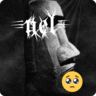
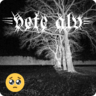
Black metal: imágenes reales oscuras (Kittelsen, Holbein, bosque, iglesia) en vez de ponis

diff --git a/src/blackmetal.py b/src/blackmetal.py
@@ -1,4 +1,4 @@
-"""Black metal stickers: grainy B&W flash photo, corpse paint, spiky unreadable logo... and a cute emoji."""
+"""Black metal stickers: dark real imagery (Kittelsen, Holbein, winter forest), spiky logo... and a cute emoji."""
 import io, math, os, random, sys
 import numpy as np
 from PIL import Image, ImageDraw, ImageFilter, ImageFont
@@ -120,59 +120,42 @@ def flash_photo(subject, xy, seed, logo_txt, emojis, logo_y=6):
     return m6.rounded(img, 26)
 
 
-def fluttershy():
-    fl = Image.open(os.path.join(here, "flutter.png")).convert("RGBA")
-    fl = corpse_paint(fl, [(85, 125, 17, 24), (145, 135, 24, 30)], (92, 168, 12), 1)
-    fl = fl.resize((440, 440), Image.LANCZOS)
-    return flash_photo(fl, (60, 90), 1, "vete alv", [("1f97a", 330, 380, 110)])
+def grim(img, crop, invert=False, gamma=1.0, gain=1.0, emojis=(), logo_txt="", seed=0, logo_y=6):
+    """dark B&W treatment of a real image: square crop, crushed tones, flash falloff, grain, cheap JPEG, spiky logo."""
+    im = Image.open(os.path.join(here, "bm", img)).convert("L")
+    W, H = im.size
+    im = im.crop((int(crop[0] * W), int(crop[1] * H), int(crop[2] * W), int(crop[3] * H))).resize((S, S), Image.LANCZOS)
+    g = np.asarray(im).astype(float) / 255
+    if invert:
+        g = 1 - g
+    g = np.clip(g * gain, 0, 1) ** gamma
+    yy, xx = np.mgrid[0:S, 0:S] / S
+    g = g * np.clip(1.3 - 1.3 * np.hypot(xx - 0.5, yy - 0.5), 0.1, 1)
+    g = g + np.random.default_rng(seed).normal(0, 0.06, g.shape)
+    out = Image.fromarray((np.clip(g, 0, 1) * 255).astype(np.uint8)).filter(ImageFilter.GaussianBlur(0.5))
+    buf = io.BytesIO(); out.save(buf, "JPEG", quality=30); buf.seek(0)
+    out = Image.open(buf).convert("RGBA")
+    logo = spiky_logo(logo_txt, seed=seed)
+    out.alpha_composite(logo, ((S - logo.width) // 2, logo_y))
+    for code, x, y, sz in emojis:
+        out.alpha_composite(m6.emoji(code, sz), (x, y))
+    return m6.rounded(out, 26)
 
 
-def pinkie():
-    pk = m6.load("pp/MLP_The_Movie_Pinkie_Pie_official_artwork.t.png", h=500)
-    off = (S - pk.width) // 2  # coords were measured with the sprite centred in 512
-    pk = corpse_paint(pk, [(112 - off, 140, 12, 22), (168 - off, 170, 26, 32)], (102 - off, 207, 14), 2)
-    pk = pk.resize((int(pk.width * 0.92), int(pk.height * 0.92)), Image.LANCZOS)
-    return flash_photo(pk, (70, 90), 2, "oki doki", [("1f449", 310, 400, 84), ("1f448", 410, 400, 84)])
-
-
-def twilight():
-    tw = Image.open(os.path.join(here, "m6/FANMADE_Twilight_Sparkle_reading_a_book_vector.png")).convert("RGBA")
-    tw = tw.crop(tw.getbbox())
-    W, H = tw.size
-    head = tw.crop((int(0.30 * W), 0, int(0.95 * W), int(0.85 * H)))
-    sc = min(S / head.width, S / head.height)
-    head = head.resize((int(head.width * sc), int(head.height * sc)), Image.LANCZOS)
-    # eye/mouth coords measured on the NO AUTORIZO frame, where the head sits at y = -40
-    head = corpse_paint(head, [(233, 170, 22, 26), (298, 165, 20, 24)], (285, 212, 14), 3)
-    return flash_photo(head, ((S - head.width) // 2, 40), 3, "intrínseco", [("1f97a", 30, 390, 100)])
-
-
-def dash():
-    rd = m6.load("rd/FANMADE_Rainbow_Dash_standing_vector.png", h=500)
-    off = (S - rd.width) // 2
-    rd = corpse_paint(rd, [(198 - off, 132, 22, 30), (258 - off, 122, 26, 34)], (220 - off, 172, 14), 4)
-    rd = rd.resize((int(rd.width * 0.9), int(rd.height * 0.9)), Image.LANCZOS)
-    return flash_photo(rd, ((S - rd.width) // 2, 70), 4, "me vale verga", [("1f495", 380, 390, 96)])
-
-
-def moai():
-    import moai_common as mc
-    card = mc.shot(1.15, 0.5, 0.45)
-    im = card.convert("RGBA")
-    im.putalpha(255)
-    g = np.asarray(im.convert("L")).astype(float) / 255
-    g = np.clip(g * 1.1 + np.random.default_rng(5).normal(0, 0.07, g.shape), 0, 1)
-    img = Image.fromarray((g * 255).astype(np.uint8))
-    buf = io.BytesIO(); img.save(buf, "JPEG", quality=30); buf.seek(0)
-    img = Image.open(buf).convert("RGBA")
-    logo = spiky_logo("nel", width=330, seed=5)
-    img.alpha_composite(logo, ((S - logo.width) // 2 - 40, 6))
-    img.alpha_composite(m6.emoji("1f97a", 110), (330, 380))
-    return m6.rounded(img, 26)
+PIECES = {
+    # name: (image, crop, invert, gamma, gain, logo, emojis, logo_y)
+    "pesta":     ("pesta.jpg", (0, 0.25, 1, 0.99), False, 1.6, 1.1, "ya voy", [("1f97a", 380, 380, 100)], 6),
+    "nokken":    ("nokken.jpg", (0.22, 0, 0.88, 1), False, 2.2, 1.0, "nel", [("1f449", 330, 405, 80), ("1f448", 420, 405, 80)], 250),
+    "abad":      ("holbein_abad.jpg", (0.05, 0.1, 0.95, 0.95), True, 1.4, 1.1, "me vale verga", [("1f495", 395, 395, 96)], 6),
+    "dama":      ("holbein_dama.jpg", (0.04, 0.1, 0.96, 0.95), True, 1.4, 1.1, "te amo", [("1f97a", 380, 385, 100)], 6),
+    "bosque":    ("bosque.jpg", (0.2, 0, 0.87, 1), True, 1.2, 1.0, "vete alv", [("1f97a", 30, 390, 100)], 6),
+    "iglesia":   ("iglesia.jpg", (0, 0.1, 1, 0.85), False, 1.8, 1.0, "intrínseco", [("1f97a", 380, 390, 100)], 6),
+}
 
 
 if __name__ == "__main__":
     out = os.path.join(here, "bmframes"); os.makedirs(out, exist_ok=True)
-    for name in sys.argv[1:] or ("fluttershy", "pinkie", "twilight", "dash", "moai"):
-        globals()[name]().save(os.path.join(out, name + ".png"))
+    for name in sys.argv[1:] or PIECES:
+        img, crop, inv, gam, gain, logo, emo, ly = PIECES[name]
+        grim(img, crop, inv, gam, gain, emo, logo, seed=len(name), logo_y=ly).save(os.path.join(out, "img_" + name + ".png"))
         print(name)

diff --git a/README.md b/README.md
@@ -21,9 +21,9 @@ Stickers de WhatsApp: ponis, moai gigachad, tarjetas de tía y frases. Todos son
 
 <img src="packs/minimal/min_01.webp" width="128" title="min_01"> <img src="packs/minimal/min_02.webp" width="128" title="min_02"> <img src="packs/minimal/min_03.webp" width="128" title="min_03"> <img src="packs/minimal/min_04.webp" width="128" title="min_04"> <img src="packs/minimal/min_05.webp" width="128" title="min_05"> <img src="packs/minimal/min_06.webp" width="128" title="min_06"> <img src="packs/minimal/min_07.webp" width="128" title="min_07"> <img src="packs/minimal/min_08.webp" width="128" title="min_08"> <img src="packs/minimal/min_09.webp" width="128" title="min_09"> <img src="packs/minimal/min_10.webp" width="128" title="min_10"> <img src="packs/minimal/min_11.webp" width="128" title="min_11"> <img src="packs/minimal/min_12.webp" width="128" title="min_12"> <img src="packs/minimal/min_13.webp" width="128" title="min_13"> <img src="packs/minimal/min_14.webp" width="128" title="min_14"> <img src="packs/minimal/min_15.webp" width="128" title="min_15">
 
-### Black metal (fijos) — `packs/black-metal` (5)
+### Black metal (fijos) — `packs/black-metal` (6)
 
-<img src="packs/black-metal/bm_dash.webp" width="128" title="bm_dash"> <img src="packs/black-metal/bm_fluttershy.webp" width="128" title="bm_fluttershy"> <img src="packs/black-metal/bm_moai.webp" width="128" title="bm_moai"> <img src="packs/black-metal/bm_pinkie.webp" width="128" title="bm_pinkie"> <img src="packs/black-metal/bm_twilight.webp" width="128" title="bm_twilight">
+<img src="packs/black-metal/bm_abad.webp" width="128" title="bm_abad"> <img src="packs/black-metal/bm_bosque.webp" width="128" title="bm_bosque"> <img src="packs/black-metal/bm_dama.webp" width="128" title="bm_dama"> <img src="packs/black-metal/bm_iglesia.webp" width="128" title="bm_iglesia"> <img src="packs/black-metal/bm_nokken.webp" width="128" title="bm_nokken"> <img src="packs/black-metal/bm_pesta.webp" width="128" title="bm_pesta">
 
 ### Moai (fijos) — `packs/moai-estatico` (4)
 
@@ -72,7 +72,7 @@ Necesitas `img2webp`/`cwebp` (libwebp), ImageMagick y `7z` (solo para `get_impac
 | `arte.py` | Goya y Doré enmarcados con placa de museo |
 | `minimal.py` | tipografía estilo suizo (Inter, color plano) |
 | `buchon.py` | buchones inspirados en "Chico Enamorado" de El Ezequiel (greca dorada, letra gótica de oro, lluvia de billetes) |
-| `blackmetal.py` | black metal: foto de flash granulosa, corpse paint, logo con espinas y un emoji tierno |
+| `blackmetal.py` | black metal: Kittelsen, Holbein, bosque nevado e iglesia de madera en blanco y negro oscuro, logo con espinas y un emoji tierno |
 | `deepfry.py` | receta de frito (`python deepfry.py <frames> <salida>`) |
 | `encode.sh` | codifica con `-kmin 0 -kmax 1` (todos los frames completos) |
 

diff --git a/CREDITS.md b/CREDITS.md
@@ -21,6 +21,15 @@ Obras de Francisco de Goya (1746–1828) y Gustave Doré (1832–1883), dominio 
 - `dore_leviatan.jpg`: [Destruction of Leviathan.png](https://commons.wikimedia.org/wiki/File:Destruction_of_Leviathan.png)
 - `goya_perro.jpg`: [Goya Dog.jpg](https://commons.wikimedia.org/wiki/File:Goya_Dog.jpg)
 
+## Black metal (`src/bm/`, stickers `bm_*`)
+
+- `pesta.jpg`: [Theodor Kittelsen - Pesta i trappen, 1896 (Pesta on the Stairs).jpg](https://commons.wikimedia.org/wiki/File:Theodor_Kittelsen_-_Pesta_i_trappen,_1896_(Pesta_on_the_Stairs).jpg) — Theodor Kittelsen, Public domain
+- `nokken.jpg`: [Kittelsen - Nøkken (Nasjonalmuseet)2.jpg](https://commons.wikimedia.org/wiki/File:Kittelsen_-_N%C3%B8kken_(Nasjonalmuseet)2.jpg) — Theodor Kittelsen, Public domain
+- `holbein_abad.jpg`: [The Abbot, from The Dance of Death, by Hans Holbein the Younger.jpg](https://commons.wikimedia.org/wiki/File:The_Abbot,_from_The_Dance_of_Death,_by_Hans_Holbein_the_Younger.jpg) — Hans Holbein the Younger, Public domain
+- `holbein_dama.jpg`: [Hans Holbein d. J. - The Noble Lady from Dance of Death - WGA11614.jpg](https://commons.wikimedia.org/wiki/File:Hans_Holbein_d._J._-_The_Noble_Lady_from_Dance_of_Death_-_WGA11614.jpg) — Hans Holbein the Younger, Public domain
+- `bosque.jpg`: [Dülmen, Kirchspiel, Bauerschaft Börnste -- 2021 -- 4408 (bw).jpg](https://commons.wikimedia.org/wiki/File:D%C3%BClmen,_Kirchspiel,_Bauerschaft_B%C3%B6rnste_--_2021_--_4408_(bw).jpg) — Dietmar Rabich, CC BY-SA 4.0 (el sticker es obra derivada, misma licencia)
+- `iglesia.jpg`: [Heddal stave church winter.jpg](https://commons.wikimedia.org/wiki/File:Heddal_stave_church_winter.jpg) — Eelco Cramer, CC BY 2.0
+
 ## Imágenes de ponis
 
 | Archivo | Fuente |
